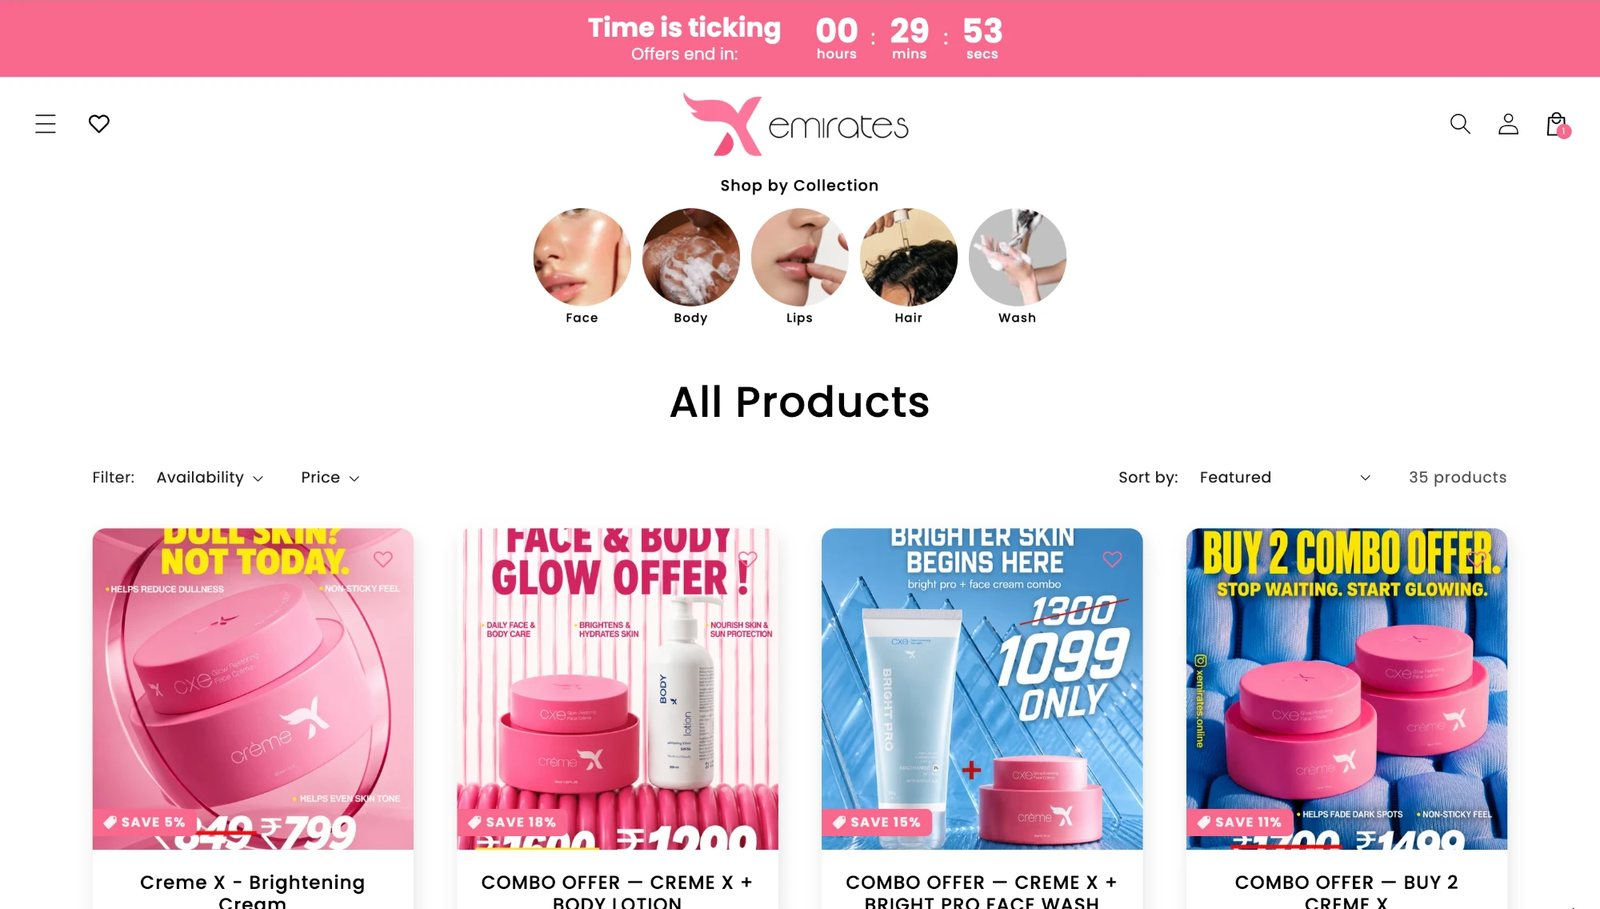
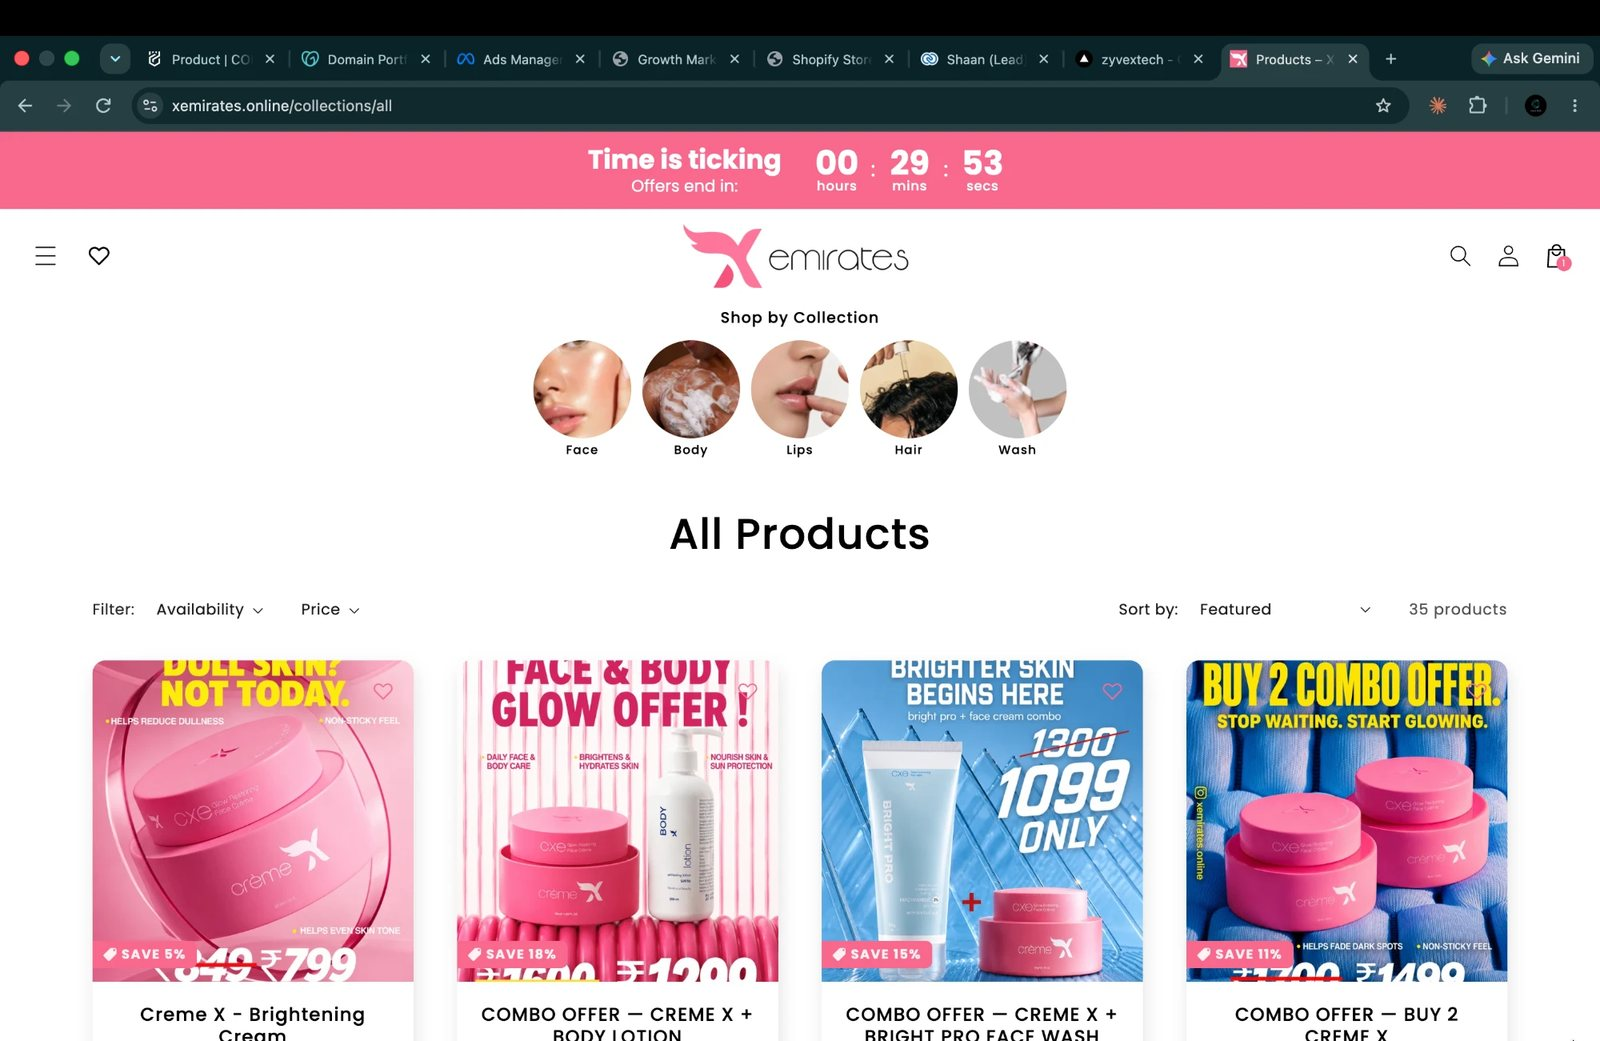
Use full uncropped screenshots on X Emirates case study
Customer phone numbers in the WhatsApp log stay blurred.

Claude-Session: https://claude.ai/code/session_01Sdg1Ejk7TR7D7UxsLftoRW

diff --git a/works/x-emirates/index.html b/works/x-emirates/index.html
@@ -428,7 +428,7 @@ padding-bottom:2px;white-space:nowrap;transition:color .18s,border-color .18s}
 <h2 class="h2" style="margin-top:12px;font-size:clamp(25px,3.2vw,34px)">&#8377;76 Lakhs in Revenue</h2>
 <p class="card-body" style="font-size:16px;max-width:70ch">With the sale happening on the website, growth became something we could build on. The store has done <b>&#8377;76,65,516</b> in total sales on Shopify this year, from 1 January to 2 October 2026.</p>
 <div class="wshots">
-<img src="/assets/work/xemirates-sales.jpg" alt="Shopify dashboard showing &#8377;76,65,516.76 in total sales, 1 January to 2 October 2026" loading="lazy" style="max-width:760px;margin:0 auto">
+<img src="/assets/work/xemirates-sales.jpg" alt="Shopify dashboard showing &#8377;76,65,516.76 in total sales, 1 January to 2 October 2026" loading="lazy">
 </div>
 </div>
 <div class="wblock">
@@ -437,7 +437,7 @@ padding-bottom:2px;white-space:nowrap;transition:color .18s,border-color .18s}
 <p class="card-body" style="font-size:16px;max-width:70ch">We rebuilt the ad account from the previous agency: campaign structure, audiences and creative testing run as an ongoing system tied to a real checkout. In July 2026 the account spent <b>&#8377;1,80,812</b> and returned <b>&#8377;15,04,356</b> in revenue, a purchase ROAS of <b>8.32x</b>.</p>
 <div class="metrics" style="max-width:640px"><div class="metric"><p class="metric-v">&#8377;1.8L</p><p class="metric-l">Ad spend, July</p></div><div class="metric"><p class="metric-v">&#8377;15.04L</p><p class="metric-l">Revenue, July</p></div><div class="metric"><p class="metric-v">8.32x</p><p class="metric-l">ROAS achieved</p></div></div>
 <div class="wshots">
-<img src="/assets/work/xemirates-roas.jpg" alt="Meta Ads Manager July 2026 summary: &#8377;1,80,812 spent, 8.32 purchase ROAS" loading="lazy" style="max-width:493px;margin:0 auto">
+<img src="/assets/work/xemirates-roas.jpg" alt="Meta Ads Manager July 2026 summary: &#8377;1,80,812 spent, 8.32 purchase ROAS" loading="lazy">
 </div>
 </div>
 <div class="wblock">
